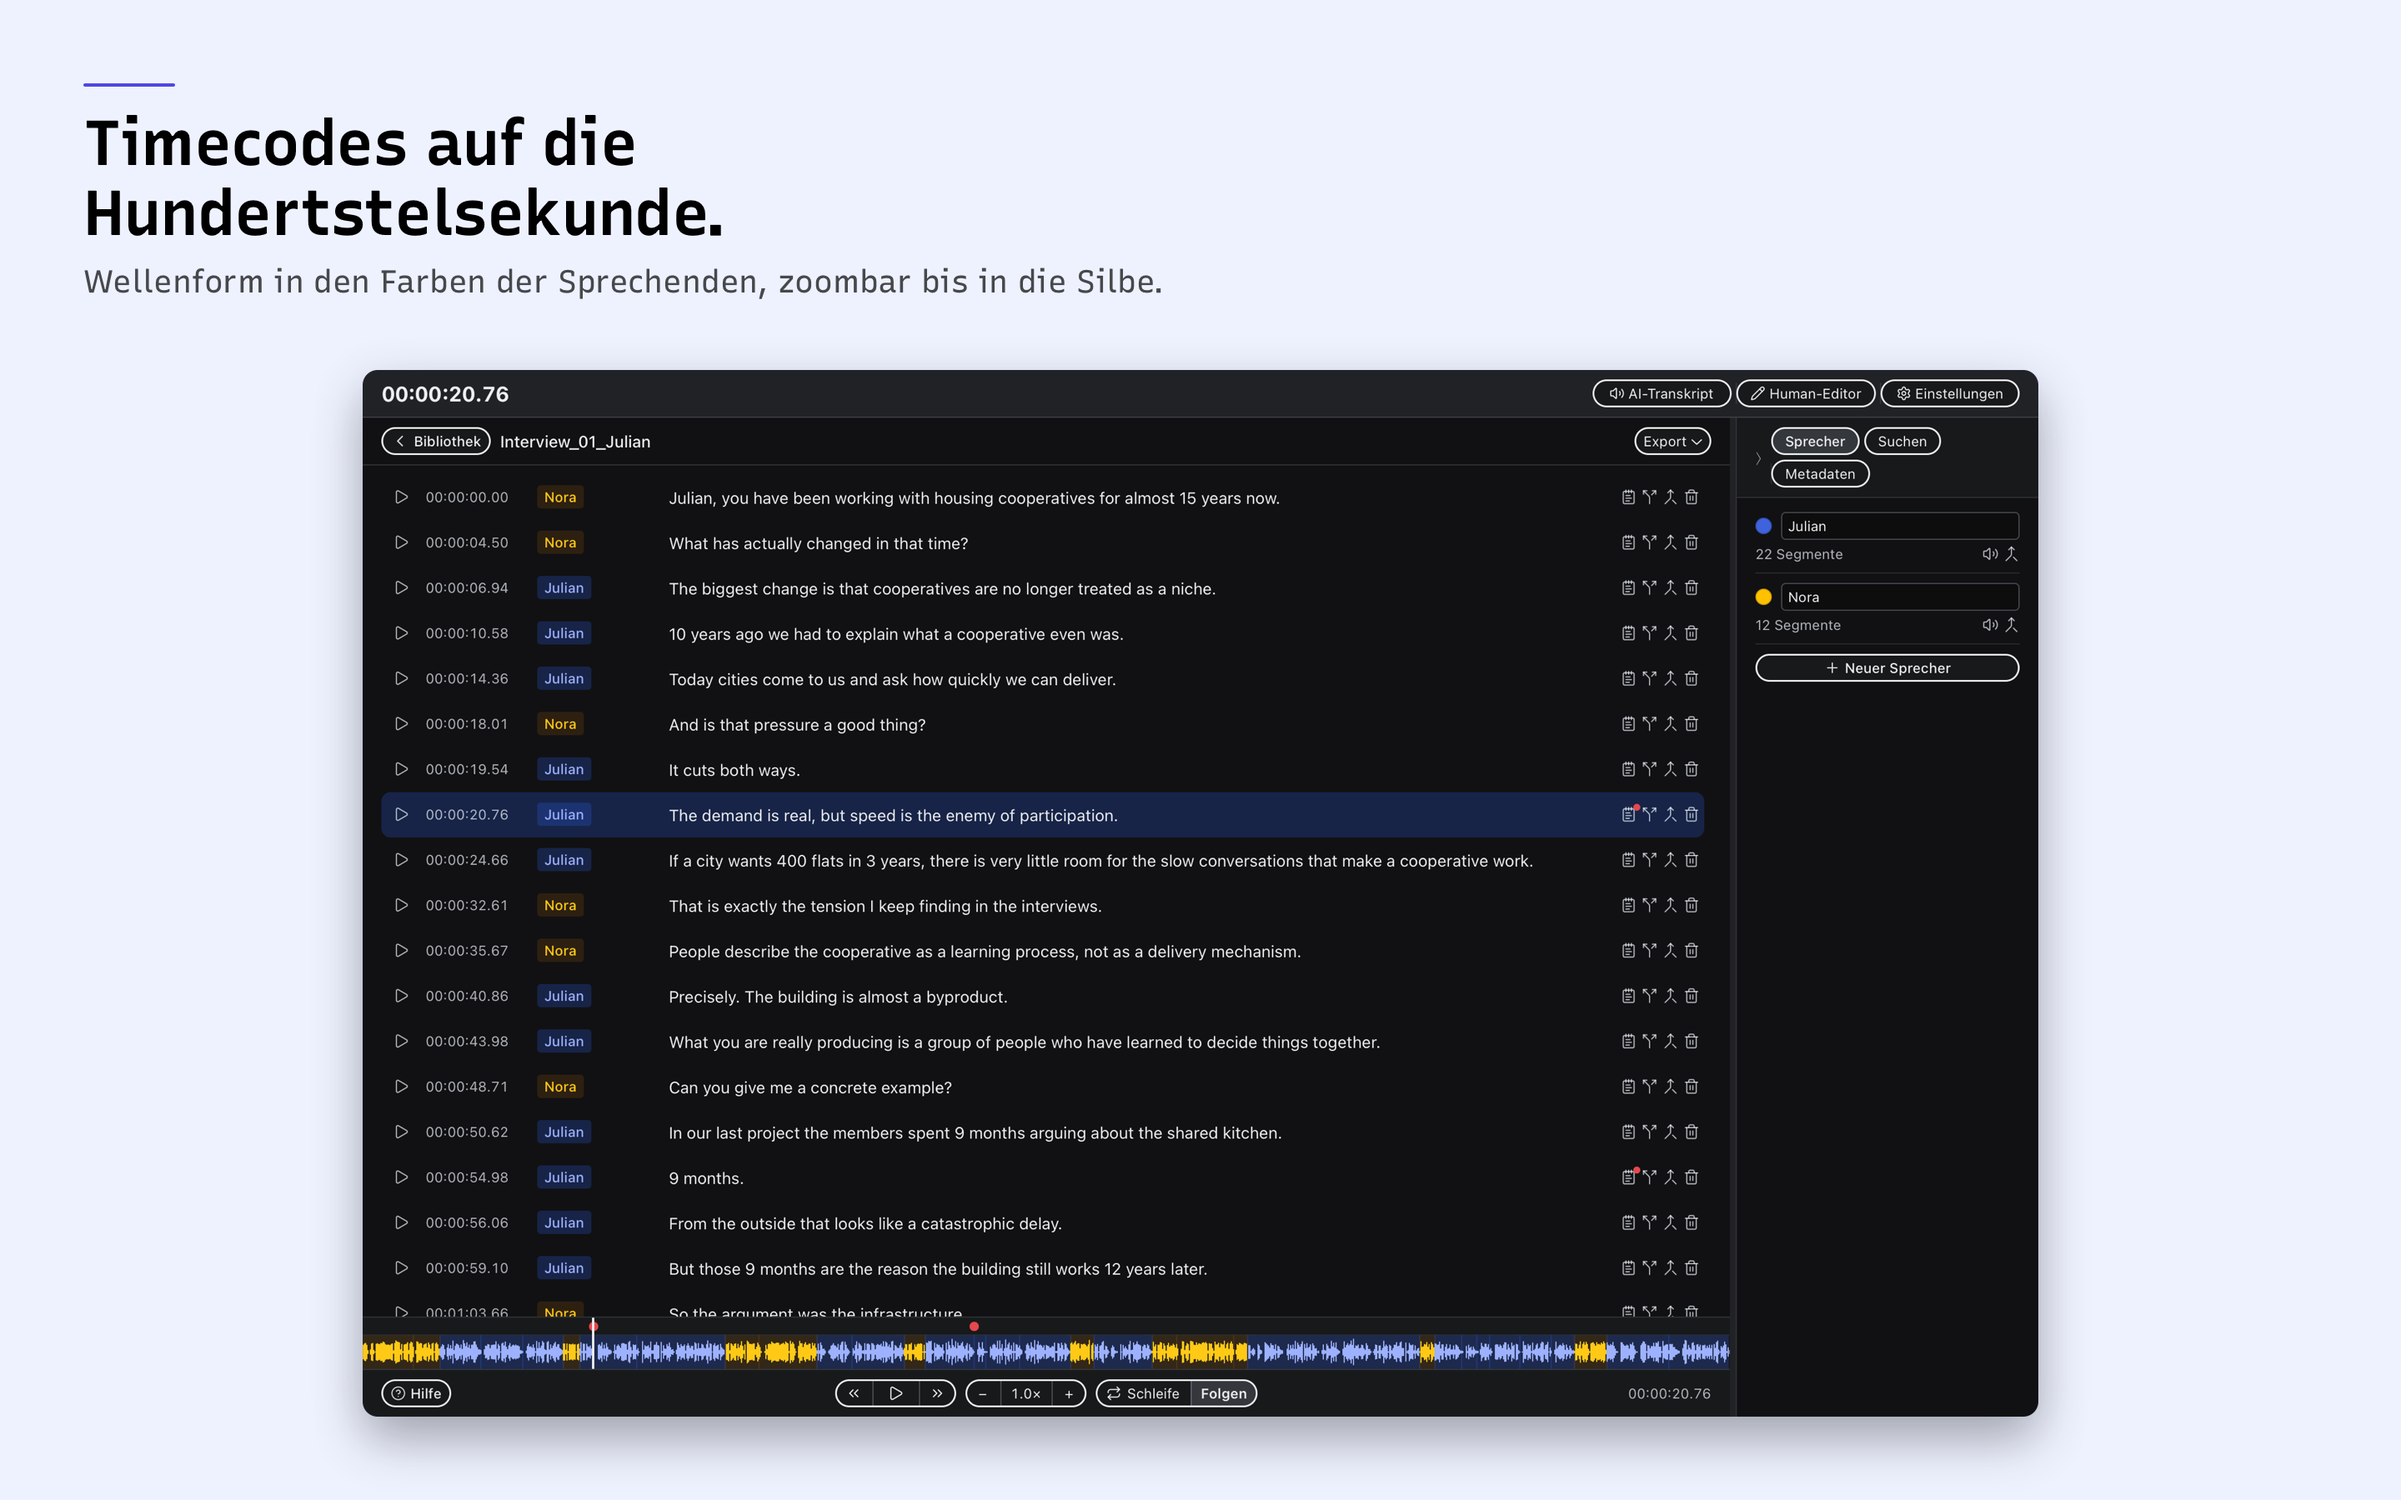
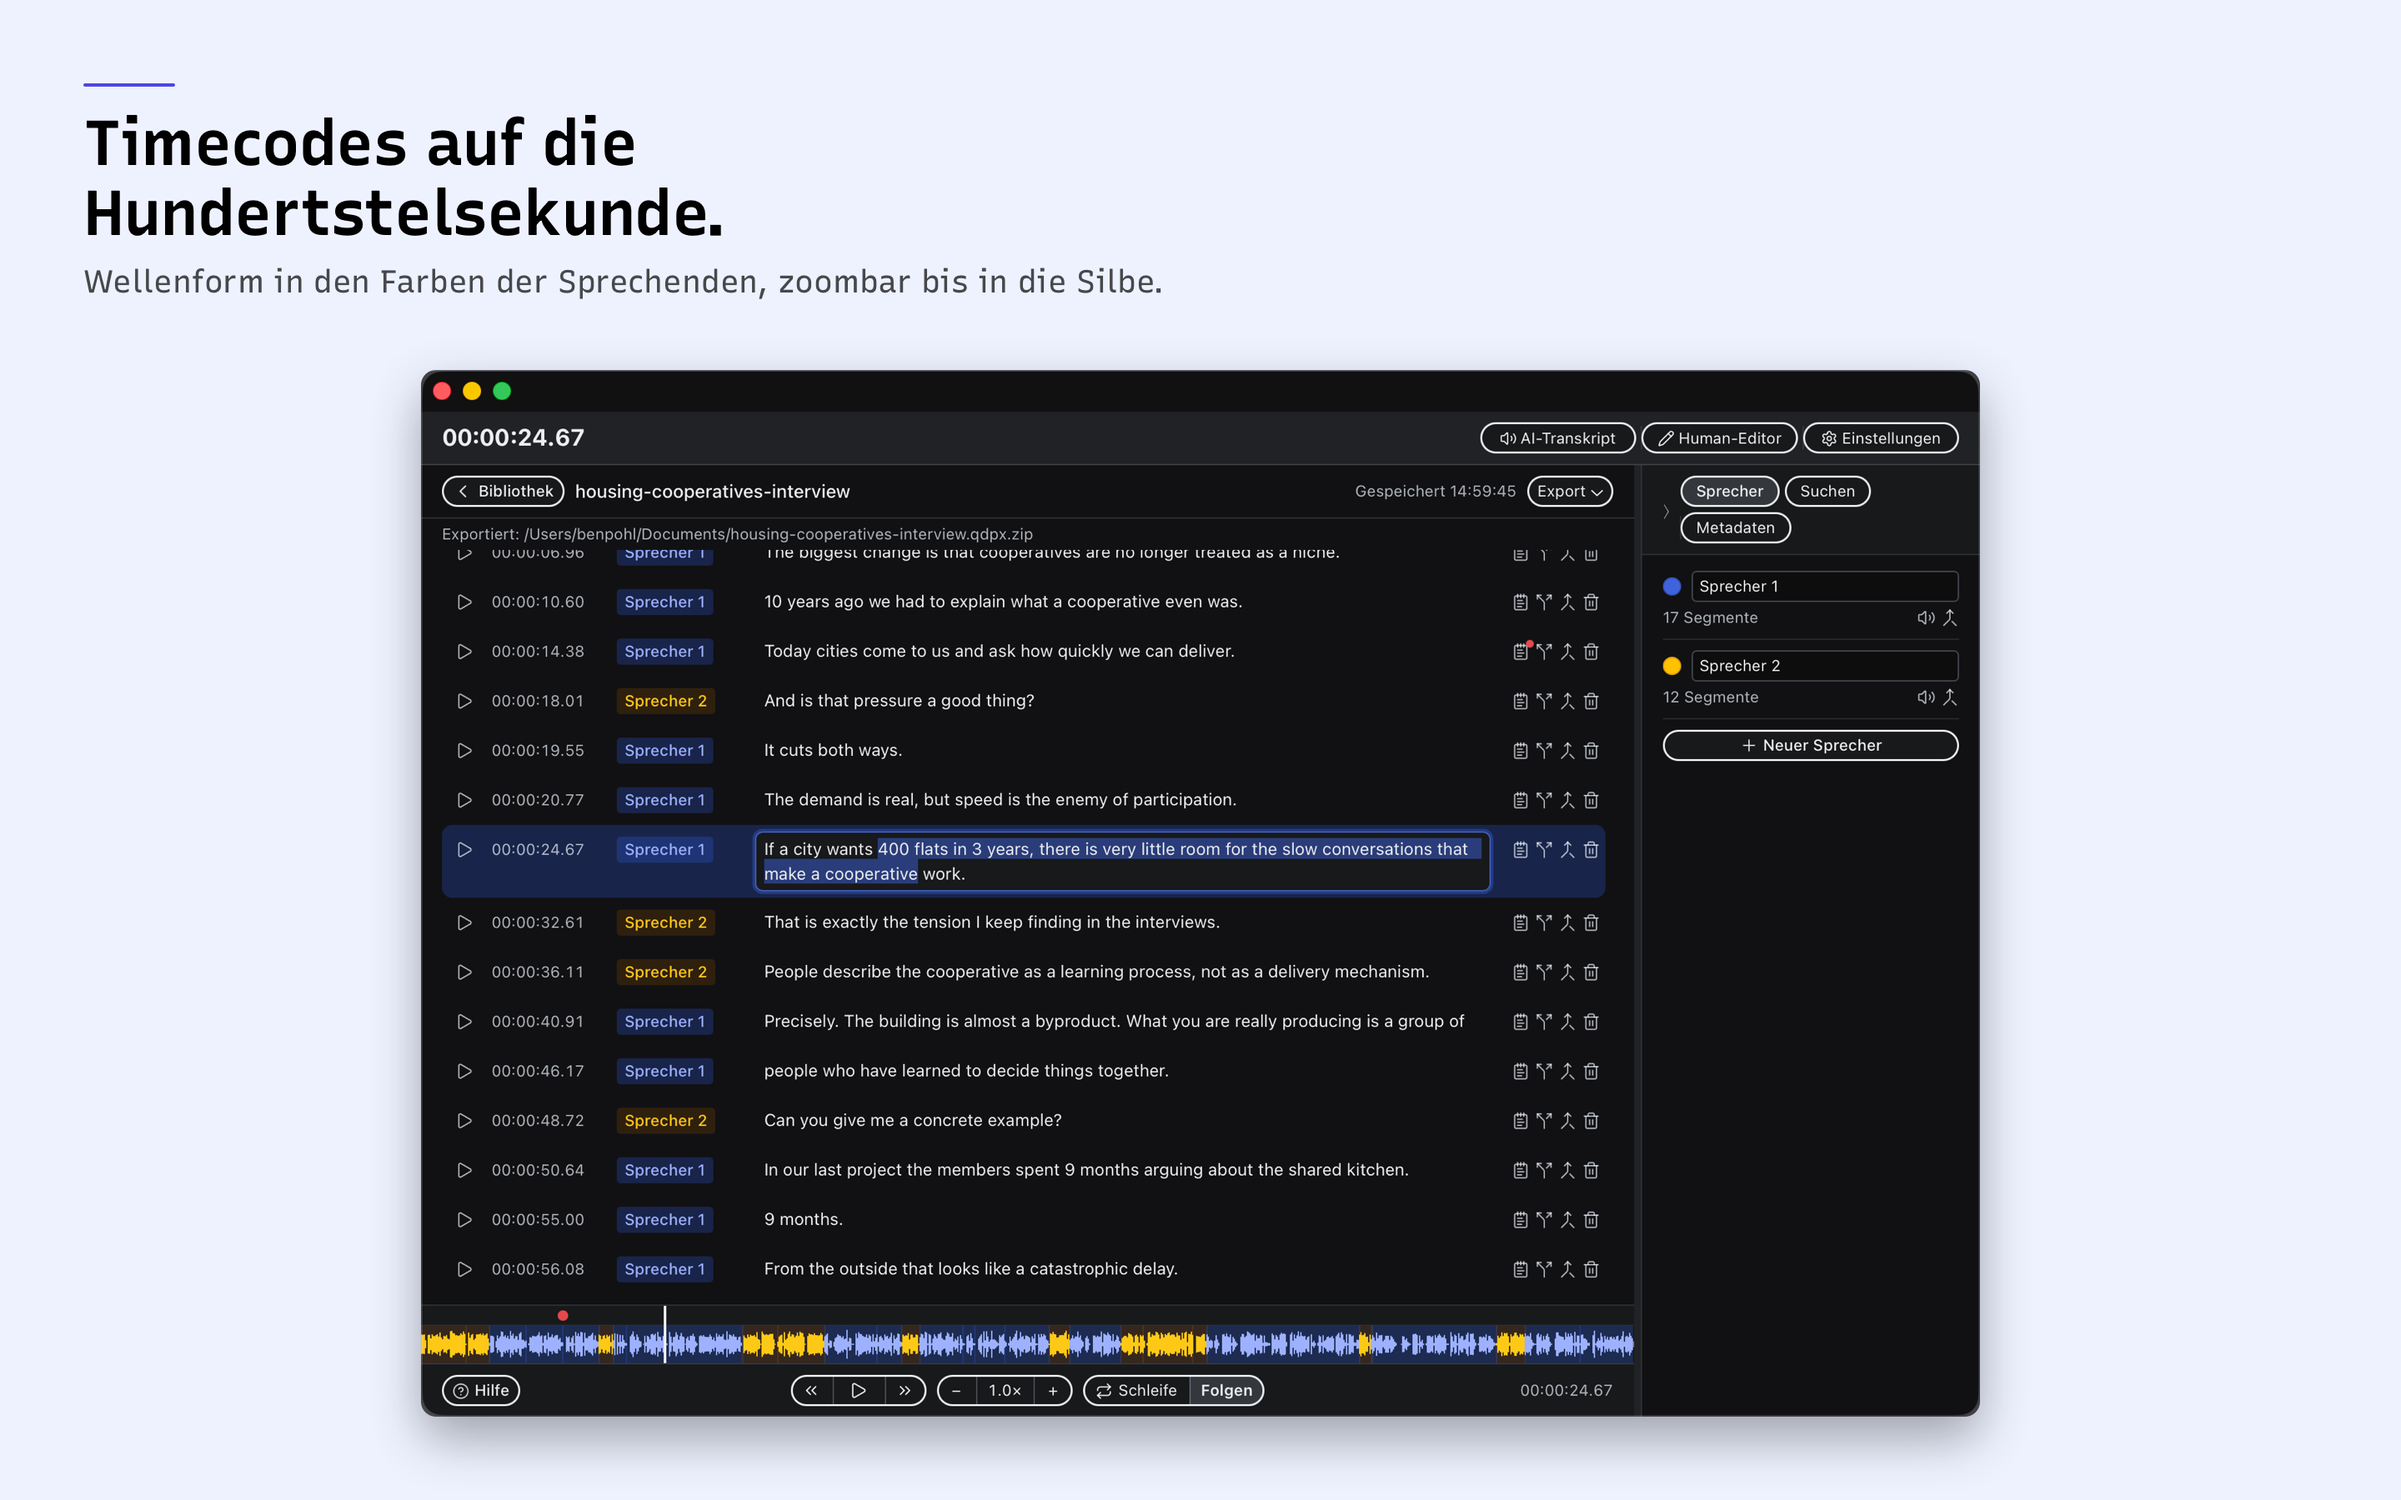
Store-Bilder: Memo statt Bibliothek, Aufnahmen aus der App freigestellt
Die Bibliothek zeigte einen Ordner mit Dateien — das sagt über die Arbeit
nichts. An ihrer Stelle steht jetzt der Memo-Dialog: Memos entstehen schon
beim Korrigieren, bleiben vom Wortlaut getrennt und sitzen im REFI-QDA-Export
an der codierten Stelle. Vier Sprachen.

scripts/appstore-freistellen.py: macOS nimmt Fenster mit Schatten und
durchsichtigen Ecken auf; beides erzeugt in der Montage einen schmutzigen
Rand und vier helle Zipfel. Das Skript schneidet auf den deckenden Bereich zu
und füllt die Ecken mit der Farbe des nächsten Fensterpixels — Rundung und
Schatten setzt die Montage, damit alle Motive gleich aussehen.

Die Montage räumt den Zielordner jetzt auf: die Nummern richten sich nach der
Reihenfolge im JSON, ein umgestelltes Motiv liess sonst eine Datei mit alter
Nummer liegen — die wäre beim Hochladen mitgegangen.

Motiv 5 (Memo) und 8 (Editor dunkel) sind die ersten Bilder aus der gebauten
App statt aus dem Browser.

Claude-Session: https://claude.ai/code/session_01VhoDoDyamQwRzZ3dqypMTk

Changed region(s): [[0.125, 0.2489, 0.875, 0.9644], [0.6562, 0.7778, 0.6875, 0.8089], [0.5625, 0.3111, 0.5938, 0.3422]]

diff --git a/scripts/appstore-freistellen.py b/scripts/appstore-freistellen.py
@@ -1,0 +1,61 @@
+#!/usr/bin/env python3
+"""Fensteraufnahme freistellen: Schatten weg, Ecken gefüllt, exaktes Rechteck.
+
+macOS nimmt mit Umschalt-Befehl-Vier + Leertaste das Fenster MIT Schatten auf.
+Der Schatten liegt im Alphakanal; auf dem hellen Grund der Store-Montage würde
+er als schmutziger Rand erscheinen, und die abgerundeten Ecken des Fensters
+blieben als durchsichtige Zipfel stehen.
+
+Dieses Skript schneidet deshalb auf den deckenden Fensterbereich zu und füllt
+die vier gerundeten Ecken mit der Farbe des jeweils nächsten Fensterpixels in
+derselben Zeile. Ergebnis: ein vollständig deckendes Rechteck. Die Rundung
+setzt die Montage selbst (`border-radius`), ebenso den Schatten — so sehen alle
+Motive gleich aus, egal womit sie aufgenommen wurden.
+
+    python3 scripts/appstore-freistellen.py <eingabe.png> <ziel.png>
+"""
+import sys
+from pathlib import Path
+
+from PIL import Image
+
+DECKEND = 250  # ab hier gilt ein Pixel als Fenster, darunter als Schatten
+
+
+def freistellen(quelle: Path, ziel: Path) -> None:
+    bild = Image.open(quelle).convert("RGBA")
+    alpha = bild.getchannel("A")
+    kasten = alpha.point(lambda a: 255 if a >= DECKEND else 0).getbbox()
+    if kasten is None:
+        raise SystemExit(f"ABBRUCH: kein deckender Bereich in {quelle}")
+    bild = bild.crop(kasten)
+    breite, hoehe = bild.size
+    pixel = bild.load()
+
+    # Ecken auffüllen: je Zeile von aussen nach innen bis zum ersten deckenden
+    # Pixel, dessen Farbe dann nach aussen fortgeschrieben wird.
+    for y in range(hoehe):
+        x = 0
+        while x < breite and pixel[x, y][3] < DECKEND:
+            x += 1
+        if x == breite:  # ganze Zeile durchsichtig – kommt bei sauberem Zuschnitt nicht vor
+            continue
+        farbe = pixel[x, y][:3] + (255,)
+        for i in range(x):
+            pixel[i, y] = farbe
+        x = breite - 1
+        while x >= 0 and pixel[x, y][3] < DECKEND:
+            x -= 1
+        farbe = pixel[x, y][:3] + (255,)
+        for i in range(x + 1, breite):
+            pixel[i, y] = farbe
+
+    ziel.parent.mkdir(parents=True, exist_ok=True)
+    bild.convert("RGB").save(ziel)
+    print(f"✓ {ziel.name}: {breite}×{hoehe} (aus {quelle.name})")
+
+
+if __name__ == "__main__":
+    if len(sys.argv) != 3:
+        raise SystemExit(__doc__)
+    freistellen(Path(sys.argv[1]), Path(sys.argv[2]))

diff --git a/appstore/texte/bildtexte.md b/appstore/texte/bildtexte.md
@@ -53,16 +53,30 @@ Die ersten drei sieht man im Store ohne Blättern.
 | 2 | `08-einstellungen.png` | **neu** — Einstellungen, Karte Datenschutz und Lizenzen |
 | 3 | `02-ai-transkript.png` | Warteliste mit mehreren Dateien und Sprecherzahl — **im dunklen Erscheinungsbild**: die Liste ist kurz, im hellen Modus wirkt die freie Fläche darunter leer |
 | 4 | `03-export.png` | offenes Export-Menü mit allen Formaten |
-| 5 | `04-suchen-ersetzen.png` | Suchen und Ersetzen mit Treffern |
-| 6 | `05-sprecherfarbe.png` | Sprechende benennen und färben |
-| 7 | `07-editor-dunkel.png` | derselbe Editor im dunklen Erscheinungsbild |
-| 8 | `06-bibliothek.png` | Bibliothek mit mehreren Transkripten |
+| 5 | `09-memo.png` | **neu** — Editor mit **offenem Memo-Dialog an einer Zeile**, Memo geschrieben (ein echter Analysegedanke, kein «Test»). Die Bibliothek zeigte nur einen Ordner mit Dateien; das sagt über die Arbeit nichts. |
+| 6 | `04-suchen-ersetzen.png` | Suchen und Ersetzen mit Treffern |
+| 7 | `05-sprecherfarbe.png` | Sprechende benennen und färben |
+| 8 | `07-editor-dunkel.png` | derselbe Editor im dunklen Erscheinungsbild |
 
 ## Aufnahme
 
 Die Rohaufnahmen kommen aus der **gebauten Store-App** (TestFlight), nicht aus dem
-Browser: Umschalt-Befehl-Vier, dann Leertaste, dann auf das Fenster klicken. Ablegen
-unter `appstore/upload/<sprache>/` mit genau den Dateinamen aus der Tabelle.
+Browser: Umschalt-Befehl-Vier, dann Leertaste, dann auf das Fenster klicken. Das Fenster
+vorher **breit ziehen** — je näher es an 2:1 kommt, desto grösser steht es in der
+Montage; ein schmales Fenster lässt links und rechts Luft stehen.
+
+macOS nimmt das Fenster **mit Schatten und durchsichtigen Ecken** auf. Beides muss weg,
+sonst zeigt die Montage einen schmutzigen Rand und vier helle Zipfel:
+
+```
+python3 scripts/appstore-freistellen.py ~/Desktop/Bildschirmfoto\ ….png \
+        appstore/upload/de/09-memo.png
+```
+
+Das Skript schneidet auf den deckenden Fensterbereich zu und füllt die gerundeten Ecken
+mit der Farbe des nächsten Fensterpixels. Rundung und Schatten setzt die Montage selbst,
+damit alle Motive gleich aussehen. Ablegen unter `appstore/upload/<sprache>/` mit genau
+den Dateinamen aus der Tabelle.
 
 Warum nicht aus dem Browser: Dort ist `isTauri()` falsch und der Vertriebskanal «dmg».
 Die Einstellungsseite zeigt dann einen Knopf «Releases», der aus dem Store heraus auf
